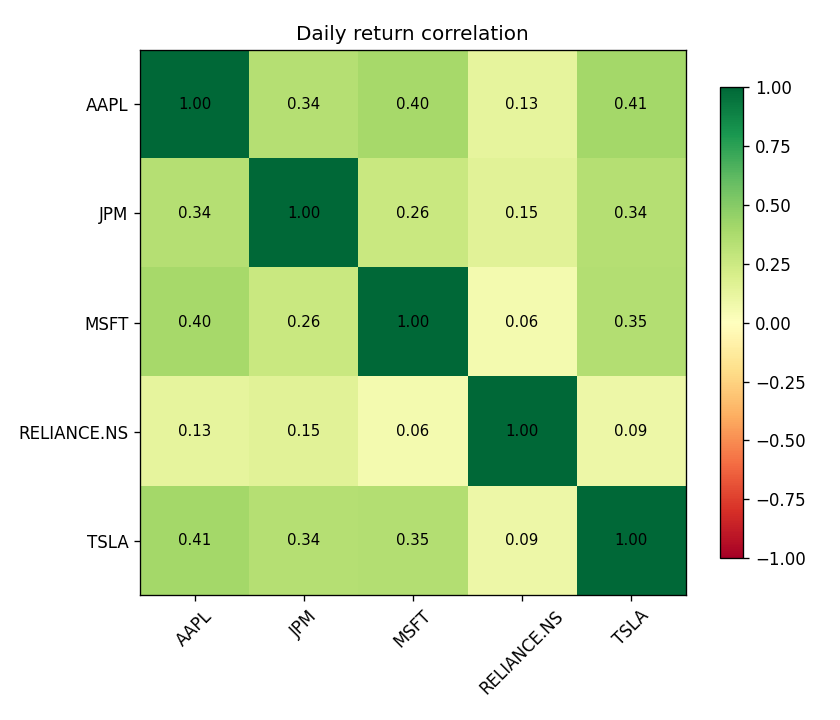
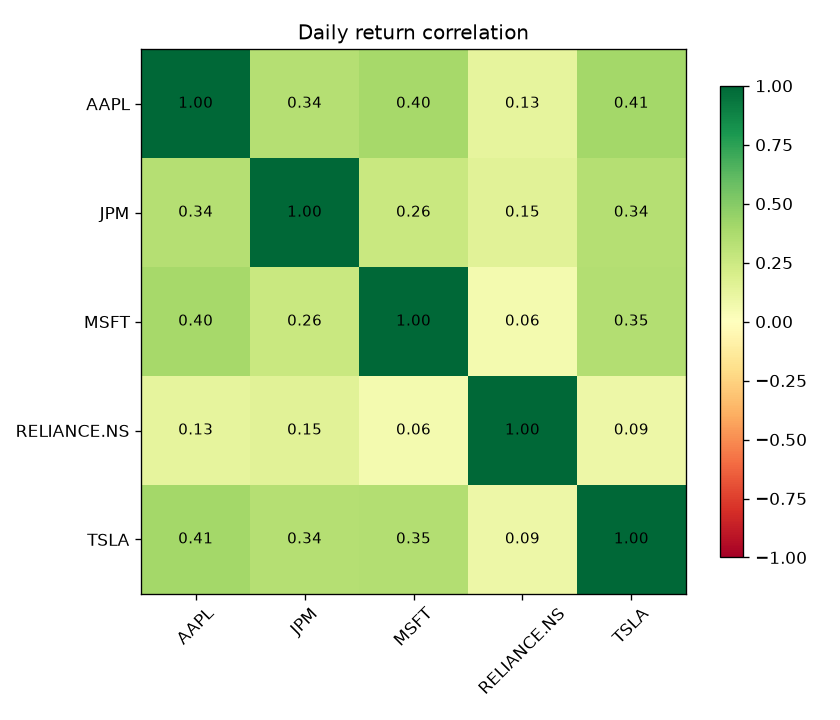
EDA - performance, risk, correlation

diff --git a/scripts/analyze.py b/scripts/analyze.py
@@ -1,5 +1,5 @@
 """
-Hour 6 — Exploratory Data Analysis
+Exploratory Data Analysis
 Interrogates the star schema to answer the brief's four questions:
   1. Who performed best/worst?
   2. Which stock is riskiest (most volatile)?

diff --git a/scripts/make_messy.py b/scripts/make_messy.py
@@ -1,5 +1,5 @@
 """
-Hour 2 — Creates a deliberately messy copy of the raw data for cleaning practice.
+Creates a deliberately messy copy of the raw data for cleaning practice.
 Injects the 5 most common real-world data defects:
   1. Duplicate rows        (system exported twice)
   2. Missing values        (feed dropped some closes)